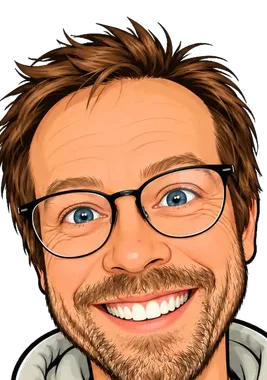
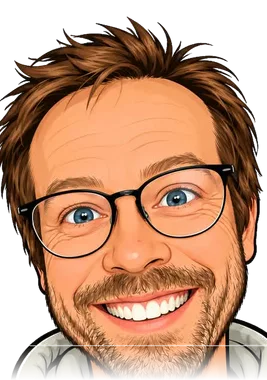
issue #537: hakfix – mjuk alfa-fade under hakan i lagren, lösare clip + krage framför som tuckas under hakan (per trollkarl)

Changed region(s): [[0.03, 0.8974, 1.0, 1.0]]

diff --git a/src/live/trollkarl/trollkarl-figur.js b/src/live/trollkarl/trollkarl-figur.js
@@ -11,7 +11,7 @@
 //       transform, reset, destroy }
 // ============================================================================
 
-import { VIEW, PIVOT, ANCHOR, THEME, FACE, bodySvg, capeSvg, legsSvg, neckSvg, hatSvg, armLSvg, armRSvg } from "./trollkarl-delar.js";
+import { VIEW, PIVOT, ANCHOR, THEME, FACE, bodySvg, capeSvg, legsSvg, neckSvg, collarSvg, hatSvg, armLSvg, armRSvg } from "./trollkarl-delar.js";
 import { POSES, PRIO, runPose } from "./trollkarl-poser.js";
 import { startIdleLoops, createEventScheduler } from "./trollkarl-idle.js";
 
@@ -52,7 +52,7 @@ export function createWizard(host, { who = "rasmus", facing = "right", reducedMo
 
   svg.innerHTML = `
   <defs>
-    <clipPath id="${id}-chin"><path d="M-20 -20 H${FW + 20} V${FH * 0.72} Q${FW} ${FH * 0.93} ${FW / 2} ${FH * 0.96} Q0 ${FH * 0.93} -20 ${FH * 0.72} Z"/></clipPath>
+    <clipPath id="${id}-chin"><path d="M-20 -20 H${FW + 20} V${FH * 0.74} L${FW * 0.8} ${FH * 0.84} V${FH * 1.05} H${FW * 0.2} V${FH * 0.84} L-20 ${FH * 0.74} Z"/></clipPath>
   </defs>
   <g data-part="flip">
     <g data-part="fig">
@@ -63,6 +63,7 @@ export function createWizard(host, { who = "rasmus", facing = "right", reducedMo
       <g data-part="head">
         ${neckSvg(t)}
         <g data-part="face" clip-path="url(#${id}-chin)" transform="translate(${FX} ${FY})">${faceImgs}</g>
+        ${collarSvg(t, who)}
         <g data-part="hat">${hatSvg(t, who)}</g>
         <g data-part="wow" style="display:none" aria-hidden="true">
           <text x="318" y="140" font-size="52" font-weight="900" fill="${t.trim}" stroke="#3b2a12" stroke-width="1.5" transform="rotate(12 318 140)">!</text>

diff --git a/src/live/trollkarl/trollkarl-delar.js b/src/live/trollkarl/trollkarl-delar.js
@@ -100,6 +100,23 @@ export function neckSvg(t) {
     <path d="M146 286 Q200 254 254 286 L246 306 Q200 282 154 306 Z" fill="${t.trim}"/>`;
 }
 
+// Mantelkrage/halsduk FRAMFÖR ansiktslagret: hög vid sidorna (döljer tröj-
+// rester ur beskärningen), dippar under hakan i mitten så käklinjen syns.
+export function collarSvg(t, who) {
+  if (who === "elias") {
+    // Slätrakad haka + svart skjorta i urklippet: kragen tuckas tätt under hakan.
+    return `<g aria-hidden="true">
+      <path d="M106 304 L115 243 Q200 257 285 243 L294 304 Q200 338 106 304Z" fill="${t.trim}"/>
+      <path d="M115 243 Q200 257 285 243 L282 254 Q200 270 118 254Z" fill="#00000026"/>
+    </g>`;
+  }
+  // Rasmus: skägget flödar ner – kragen får sitta lägre och dippa i mitten.
+  return `<g aria-hidden="true">
+    <path d="M106 304 L117 248 Q200 290 283 248 L294 304 Q200 338 106 304Z" fill="${t.trim}"/>
+    <path d="M117 248 Q200 290 283 248 L280 260 Q200 300 120 260Z" fill="#00000026"/>
+  </g>`;
+}
+
 // Hatt – i skala med de fotobaserade huvudena (huvudet spänner x≈88–312):
 // brättet är BREDARE än huvudet och ligger över hårets ovansida; kullen täcker
 // hjässan. Rasmus: sned floppig hatt med knäckt topp så rufset sticker fram
